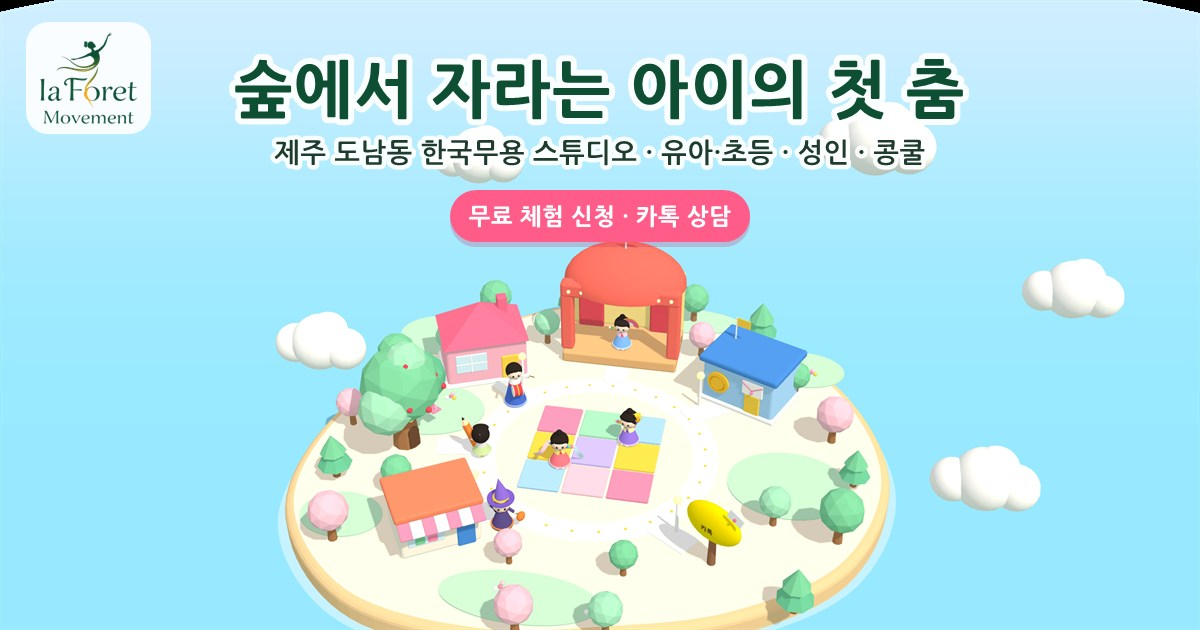
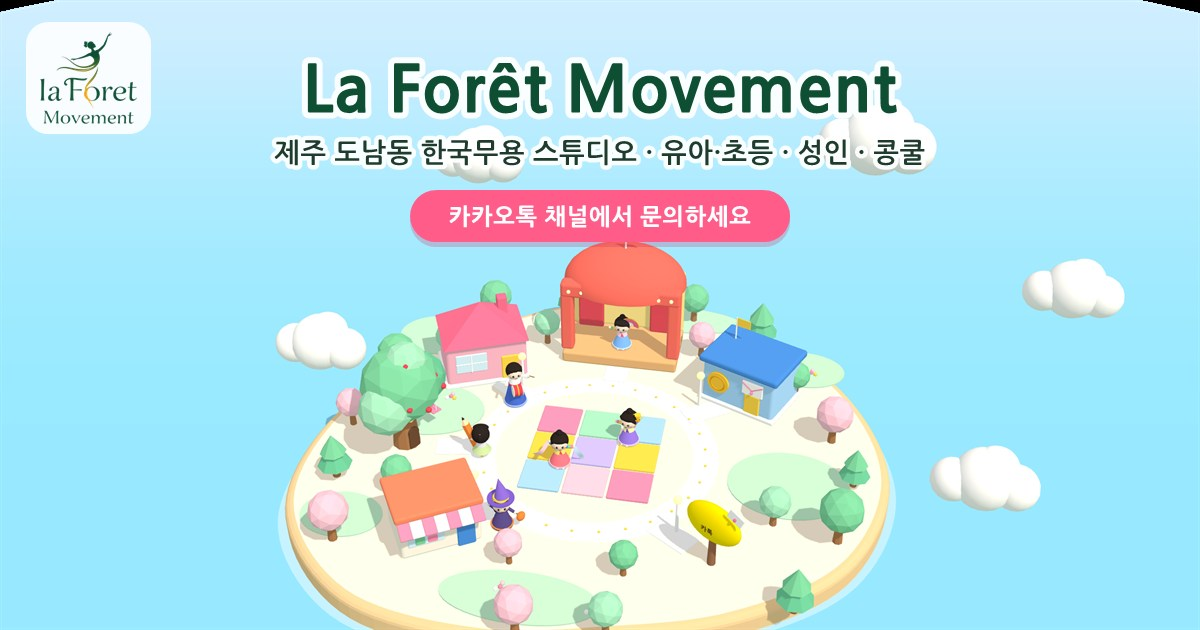
Auto-fit 3D village, simplify hero and Kakao actions
- Camera distance and view offset are computed per screen so the
  whole island fits on desktop and all buildings/labels fit on phones
- Hero shows only the green "La Forêt Movement" title
- Kakao mailbox label and contact section use a single yellow
  "카카오톡 채널 추가" button; share image updated to match

Changed region(s): [[0.185, 0.0603, 0.8325, 0.2111], [0.3392, 0.3016, 0.6783, 0.3921]]

diff --git a/index.html b/index.html
@@ -72,11 +72,9 @@
   /* ===== hero: 3D village ===== */
   .hero3d{position:relative; height:calc(100svh - 72px); min-height:560px; max-height:920px; overflow:hidden; background:linear-gradient(180deg,#8fd3f6 0%,#bfe8fd 48%,#e4f6ff 100%)}
   #world{position:absolute; inset:0; width:100%; height:100%; display:block; touch-action:pan-y; cursor:grab; outline:none}
-  .hero-copy{position:absolute; top:34px; left:max(24px,calc((100% - var(--maxw))/2 + 24px)); z-index:3; text-align:left; pointer-events:none; max-width:560px}
-  .hero-copy .hero-cta{justify-content:flex-start}
-  .hero-copy .eyebrow{color:#fff; text-shadow:0 1px 8px rgba(20,80,120,.35)}
-  .hero-copy h1{font-size:clamp(1.9rem,4.2vw,3.2rem); color:var(--g); margin:.35rem 0 1rem; text-shadow:0 0 18px rgba(255,255,255,.9),0 2px 0 rgba(255,255,255,.7)}
-  .hero-cta{display:flex; gap:.7rem; justify-content:center; flex-wrap:wrap; pointer-events:auto}
+  .hero-copy{position:absolute; top:26px; left:0; right:0; z-index:3; text-align:center; pointer-events:none; padding:0 16px}
+  .hero-copy h1{font-size:clamp(1.6rem,3vw,2.4rem); font-weight:800; letter-spacing:.01em; color:var(--g); text-shadow:0 0 18px rgba(255,255,255,.95),0 2px 0 rgba(255,255,255,.7)}
+  .sr-only{position:absolute; width:1px; height:1px; overflow:hidden; clip:rect(0 0 0 0); white-space:nowrap}
   .labels{position:absolute; inset:0; z-index:2; pointer-events:none}
   .lbl{position:absolute; left:0; top:0; pointer-events:auto; display:inline-flex; align-items:center; gap:7px; background:#fff; color:var(--ink); font-family:inherit; font-weight:700; font-size:.9rem; padding:.45em .95em; border-radius:999px; border:none; box-shadow:0 8px 20px rgba(20,60,90,.18); cursor:pointer; white-space:nowrap; will-change:transform}
   .lbl::after{content:""; position:absolute; left:50%; bottom:-5px; width:10px; height:10px; background:#fff; transform:translateX(-50%) rotate(45deg); border-radius:2px}
@@ -223,10 +221,8 @@
     .nav-links{display:none} .menu-btn{display:block}
     .brand img{height:44px}
     .hero3d{height:calc(86svh - 64px); min-height:540px}
-    .hero-copy{top:22px; left:0; right:0; max-width:none; text-align:center; padding:0 16px}
-    .hero-copy .hero-cta{justify-content:center}
-    .hero-copy h1{font-size:1.75rem; margin-bottom:.8rem}
-    .hero-cta .btn{font-size:.9rem; padding:.7em 1.2em}
+    .hero-copy{top:18px}
+    .hero-copy h1{font-size:1.55rem}
     .lbl{font-size:.8rem; padding:.38em .75em}
     .dlg{bottom:14px; padding:20px 18px 12px; border-radius:20px}
     .dlg p{font-size:.97rem}
@@ -284,12 +280,7 @@
 <section class="hero3d" id="hero">
   <canvas id="world" tabindex="-1" aria-label="라포레 장난감 마을 3D 지도. 건물을 누르면 안내가 열립니다."></canvas>
   <div class="hero-copy">
-    <p class="eyebrow">La Forêt Movement · Korean Dance Studio</p>
-    <h1>숲에서 자라는 아이의 첫 춤</h1>
-    <div class="hero-cta">
-      <a href="#contact" class="btn btn-primary btn-sm">무료 체험 신청</a>
-      <a href="#programs" class="btn btn-white btn-sm">수업 둘러보기</a>
-    </div>
+    <h1>La Forêt Movement<span class="sr-only"> — 제주 도남동 한국무용 스튜디오 라포레 무브먼트</span></h1>
   </div>
   <div class="labels" id="labels"></div>
   <div class="dlg" id="dlg" aria-live="polite">
@@ -482,16 +473,14 @@
     <div class="contact-grid reveal">
       <div class="trial-box">
         <img class="kidimg" data-kid="pencil" alt="" width="300" height="360">
-        <h3>카카오톡으로 간편하게 신청하세요</h3>
+        <h3>카카오톡 채널로 간편하게 신청하세요</h3>
         <ol class="trial-steps">
-          <li><b>1</b><span>아래 버튼을 눌러 라포레 카카오톡 채널을 열어 주세요.</span></li>
-          <li><b>2</b><span>아이 나이(성인반은 ‘성인’)와 희망 요일·시간을 보내 주세요.</span></li>
+          <li><b>1</b><span>아래 버튼을 눌러 라포레 카카오톡 채널을 추가해 주세요.</span></li>
+          <li><b>2</b><span>채팅으로 아이 나이(성인반은 ‘성인’)와 희망 요일·시간을 보내 주세요.</span></li>
           <li><b>3</b><span>하루 안에 체험 일정을 안내해 드려요.</span></li>
         </ol>
         <div class="contact-btns">
-          <a href="https://pf.kakao.com/_xcpPWX/chat" class="btn btn-kakao" target="_blank" rel="noopener">카톡으로 체험 신청하기</a>
-          <a href="https://pf.kakao.com/_xcpPWX" class="btn btn-line" target="_blank" rel="noopener">카카오톡 채널 추가</a>
-          <a href="tel:0507-1386-6878" class="btn btn-line">전화로 문의하기</a>
+          <a href="https://pf.kakao.com/_xcpPWX" class="btn btn-kakao" target="_blank" rel="noopener">카카오톡 채널 추가</a>
         </div>
       </div>
       <div class="info-card">
@@ -877,8 +866,8 @@ function buildWorld(scene) {
     const env = new THREE.Group(); env.position.set(1.25, 3.55, .2); g.add(env);
     add(env, rbox(.8, .55, .08, .03), C.white, [0, 0, 0], { r: [0, 0, -.3] }); add(env, sph(.08, 10, 8), 0xff6f91, [0, -.05, .07]);
     anims.push(t => { env.position.y = 3.55 + Math.sin(t * 2) * .14; env.rotation.z = Math.sin(t * 1.5) * .15; });
-    place(g, { id: 'contact', name: '카톡 우체통', sub: '무료 체험', color: '#f5c400', ly: 4.3, kakao: true,
-      desc: '카카오톡으로 나이와 희망 시간을 보내 주시면, 하루 안에 체험 일정을 알려드려요.' }); }
+    place(g, { id: 'contact', name: '카톡 우체통', sub: '카카오톡 채널', color: '#f5c400', ly: 4.3, kakao: true,
+      desc: '라포레 카카오톡 채널을 추가하고 수업·체험을 편하게 문의해 주세요.' }); }
 
   // 친구들
   function kid(fig, pos, ry, info, mode) {
@@ -965,20 +954,13 @@ function start() {
 
   // 카메라 상태
   const PHI = .98;
-  const homeTarget = new THREE.Vector3(0, 3.2, -1.2);
+  const homeTarget = new THREE.Vector3(0, 1.2, 0);
   const target = homeTarget.clone(), targetT = homeTarget.clone();
-  let theta = 0, thetaT = 0, R = 34, RT = 34, baseR = 34, focused = null, lastInput = -99;
+  let theta = 0, thetaT = 0, R = 40, RT = 40, baseR = 40, focused = null, lastInput = -99;
   const clock = new THREE.Clock();
-
-  function resize() {
-    const w = hero.clientWidth, h = hero.clientHeight;
-    renderer.setSize(w, h, false); camera.aspect = w / h; camera.fov = w < 700 ? 40 : 30; camera.updateProjectionMatrix();
-    const hf = Math.atan(Math.tan(THREE.MathUtils.degToRad(camera.fov / 2)) * camera.aspect);
-    const fitW = w < 700 ? 23 : 35;
-    baseR = clamp((fitW / 2) / Math.tan(hf), 28, 64);
-    if (!focused) { RT = baseR; }
-  }
-  resize(); R = RT; addEventListener('resize', resize);
+  const dlgEl = document.getElementById('dlg');
+  let vw = 1, vh = 1;
+  const off = new THREE.Vector2(), homeOff = new THREE.Vector2(), focusOff = new THREE.Vector2();
 
   // 라벨
   const labelsEl = document.getElementById('labels');
@@ -987,17 +969,55 @@ function start() {
     b.innerHTML = `<span class="dot" style="background:${p.userData.place.color}"></span>${p.userData.place.sub}`;
     b.addEventListener('click', () => select(p)); labelsEl.appendChild(b); return b;
   });
+  const lblW = lbls.map(() => 90);
   const v = new THREE.Vector3();
   function updateLabels() {
-    const w = hero.clientWidth, h = hero.clientHeight;
     W.places.forEach((p, i) => {
       v.set(0, p.userData.place.ly, 0); p.localToWorld(v); v.project(camera);
       const el = lbls[i];
       if (v.z > 1) { el.style.visibility = 'hidden'; return; }
-      el.style.visibility = ''; el.style.transform = `translate(${((v.x + 1) / 2 * w).toFixed(1)}px,${((1 - v.y) / 2 * h).toFixed(1)}px) translate(-50%,-100%)`;
+      const hw = lblW[i] / 2, x = clamp((v.x + 1) / 2 * vw, hw + 6, vw - hw - 6), y = (1 - v.y) / 2 * vh;
+      el.style.visibility = ''; el.style.transform = `translate(${x.toFixed(1)}px,${y.toFixed(1)}px) translate(-50%,-100%)`;
       el.classList.toggle('on', focused === p);
     });
   }
+
+  // 화면 맞춤: 꼭 보여야 하는 점(건물·이름표·섬 가장자리)이 화면 안에 들어오는 거리를 계산
+  const fitPts = [];
+  { const b = new THREE.Box3();
+    W.places.forEach(p => {
+      p.updateMatrixWorld(true); b.setFromObject(p);
+      for (let i = 0; i < 8; i++) fitPts.push(new THREE.Vector3(i & 1 ? b.max.x : b.min.x, i & 2 ? b.max.y : b.min.y, i & 4 ? b.max.z : b.min.z));
+      const lp = new THREE.Vector3(0, p.userData.place.ly + .9, 0); p.localToWorld(lp); fitPts.push(lp);
+    }); }
+  const rim = [];
+  for (let i = 0; i < 32; i++) { const a = i / 32 * Math.PI * 2, r = 13.4 + 1.1 * Math.sin(2 * a + .6) + .7 * Math.cos(3 * a + 1.2) + .45; rim.push([Math.cos(a) * r, -Math.sin(a) * r]); }
+  const fitCam = new THREE.PerspectiveCamera(), pv = new THREE.Vector3();
+  function bounds(Rv, pts, w, h) {
+    fitCam.fov = camera.fov; fitCam.aspect = camera.aspect; fitCam.updateProjectionMatrix();
+    fitCam.position.set(homeTarget.x, homeTarget.y + Rv * Math.cos(PHI), homeTarget.z + Rv * Math.sin(PHI)); fitCam.lookAt(homeTarget); fitCam.updateMatrixWorld();
+    let x0 = 1e9, x1 = -1e9, y0 = 1e9, y1 = -1e9;
+    for (const p of pts) { pv.copy(p).project(fitCam); const x = (pv.x + 1) / 2 * w, y = (1 - pv.y) / 2 * h; if (x < x0) x0 = x; if (x > x1) x1 = x; if (y < y0) y0 = y; if (y > y1) y1 = y; }
+    return { x0, x1, y0, y1 };
+  }
+  function resize() {
+    const w = hero.clientWidth, h = hero.clientHeight, mob = w < 700; vw = w; vh = h;
+    renderer.setSize(w, h, false); camera.aspect = w / h; camera.fov = mob ? 40 : 30; camera.updateProjectionMatrix();
+    // 절충안: PC는 섬 전체가 보이게, 휴대폰은 건물·이름표는 전부 보이고 섬 가장자리 모래사장만 살짝 잘리게
+    const s = mob ? .8 : 1;
+    const pts = fitPts.concat(rim.map(([x, z]) => new THREE.Vector3(x * s, G, z * s)));
+    const top = mob ? 60 : 78, bottom = dlgEl.offsetHeight + (mob ? 18 : 32), side = mob ? 6 : 28;
+    const aw = (w - side * 2) * .97, ah = Math.max(120, (h - top - bottom) * .97);
+    let lo = 8, hi = 220;
+    for (let i = 0; i < 24; i++) { const mid = (lo + hi) / 2, bb = bounds(mid, pts, w, h); if (bb.x1 - bb.x0 <= aw && bb.y1 - bb.y0 <= ah) hi = mid; else lo = mid; }
+    baseR = hi;
+    const bb = bounds(hi, pts, w, h), cy = (top + h - bottom) / 2;
+    homeOff.set((bb.x0 + bb.x1) / 2 - w / 2, (bb.y0 + bb.y1) / 2 - cy);
+    focusOff.set(0, h / 2 - cy);
+    if (!focused) RT = baseR;
+    lbls.forEach((el, i) => { lblW[i] = el.offsetWidth || 90; });
+  }
+  resize(); R = RT; off.copy(homeOff); addEventListener('resize', resize);
 
   // 대화창
   const dWho = document.getElementById('dlgWho'), dText = document.getElementById('dlgText'), dAct = document.getElementById('dlgActions'), dNext = document.getElementById('dlgNext');
@@ -1005,7 +1025,7 @@ function start() {
     '안녕하세요! 숲속 장난감 마을 <b>라포레</b>에 오신 걸 환영해요.',
     isTouch ? '마을을 <b>옆으로 밀면</b> 빙글 둘러볼 수 있어요.' : '마을을 <b>드래그하면</b> 빙글 둘러볼 수 있어요.',
     '건물을 누르면 <b>수업·바우처·갤러리</b>를 구경할 수 있어요. 친구들도 눌러 보세요!',
-    '마음에 드셨다면 <b>카톡 우체통</b>에서 무료 체험을 신청해 주세요!'
+    '마음에 드셨다면 <b>카카오톡 채널</b>을 추가하고 편하게 문의해 주세요!'
   ];
   let step = 0;
   function say(who, html, actions = [], nextLabel = '다음 ›') {
@@ -1015,7 +1035,7 @@ function start() {
   }
   function showIntro(n) {
     step = n; const last = n === intro.length - 1;
-    say('한삼이', intro[n], last ? [{ label: '카톡으로 체험 신청', href: 'https://pf.kakao.com/_xcpPWX/chat', cls: 'btn-kakao', blank: true }] : [], last ? '처음으로 ↺' : '다음 ›');
+    say('한삼이', intro[n], last ? [{ label: '카카오톡 채널 추가', href: 'https://pf.kakao.com/_xcpPWX', cls: 'btn-kakao', blank: true }] : [], last ? '처음으로 ↺' : '다음 ›');
   }
   dNext.addEventListener('click', () => { if (focused) { unselect(); showIntro(step); } else showIntro((step + 1) % intro.length); });
   showIntro(0);
@@ -1023,9 +1043,9 @@ function start() {
   function select(p) {
     focused = p; const info = p.userData.place;
     targetT.copy(p.position).add(new THREE.Vector3(0, 1.4, 0));
-    RT = baseR * (hero.clientWidth < 700 ? .62 : .55); thetaT = clamp(p.rotation.y, -1.1, 1.1);
+    RT = clamp(baseR * .5, 14, 36); thetaT = clamp(p.rotation.y, -1.1, 1.1);
     const acts = info.kakao
-      ? [{ label: '카톡으로 체험 신청', href: 'https://pf.kakao.com/_xcpPWX/chat', cls: 'btn-kakao', blank: true }, { label: '오시는 길 ↓', href: '#contact', cls: 'btn-line' }]
+      ? [{ label: '카카오톡 채널 추가', href: 'https://pf.kakao.com/_xcpPWX', cls: 'btn-kakao', blank: true }]
       : [{ label: '자세히 보기 ↓', href: '#' + info.id }];
     say(info.name, `<b>${info.sub}</b> · ${info.desc}`, acts, '마을로 돌아가기 ✕');
   }
@@ -1079,6 +1099,7 @@ function start() {
     if (!reduce && !focused && t - lastInput > 4) thetaT = Math.sin(t * .1) * .32;
     const k = 1 - Math.exp(-dt * 3.2);
     theta += (thetaT - theta) * k; R += (RT - R) * k; target.lerp(targetT, k);
+    off.lerp(focused ? focusOff : homeOff, k); camera.setViewOffset(vw, vh, off.x, off.y, vw, vh);
     placeCamera(R);
 
     W.places.forEach(p => { const s = (hovered === p || focused === p) ? 1.04 : 1; p.scale.setScalar(p.scale.x + (s - p.scale.x) * Math.min(1, dt * 10)); });

diff --git a/CLAUDE.md b/CLAUDE.md
@@ -12,6 +12,9 @@
   - 건물은 `buildWorld()` 안 `place(g, {id, name, sub, desc, color, ly})`: 나무집=about, 연습실=programs, 무대=gallery, 바우처 센터=voucher, 굿즈샵=shop, 카톡 우체통=contact. 누르면 카메라가 다가가고 대화창에 설명 + '자세히 보기' 버튼.
   - 아래 섹션의 캐릭터 그림(`img.kidimg[data-kid]`)은 페이지가 열릴 때 같은 3D 캐릭터를 렌더링해서 채움(`renderPortraits`).
   - 3D가 9초 안에 안 뜨면 `.fallback`으로 글자만 보이는 화면 전환.
+  - 카메라 거리는 `resize()`가 자동 계산(건물·이름표·섬 가장자리 점이 제목과 대화창 사이에 들어오도록). PC는 섬 전체, 휴대폰은 섬 가장자리만 살짝 잘리는 절충(`s = .8`).
+  - 첫 화면 글자는 초록색 'La Forêt Movement' 제목 하나만(사용자 요청, 슬로건·버튼 없음).
+  - 카카오: 우체통 이름표·문의 섹션은 '카카오톡 채널 추가'(채널 홈) 하나로 통일. 휴대폰 플로팅 '카톡 문의'만 채팅 링크.
 - 2D 그림 버전(이전 시안)은 저장소에 없음(로컬 임시 백업만).
 - 배포: GitHub `ldg0116-oss/laforetsite` `main`에 push → Netlify 자동 배포. 수정 후 `git add . && git commit && git push origin main`.
 - 대표 주소: **https://laforet-jeju.netlify.app** (무료 Netlify 주소, 2026-11-04 사용자가 유지 결정). canonical·og:url·og:image·JSON-LD·robots·sitemap 모두 이 주소. 주소가 바뀌면 전부 일괄 치환.
